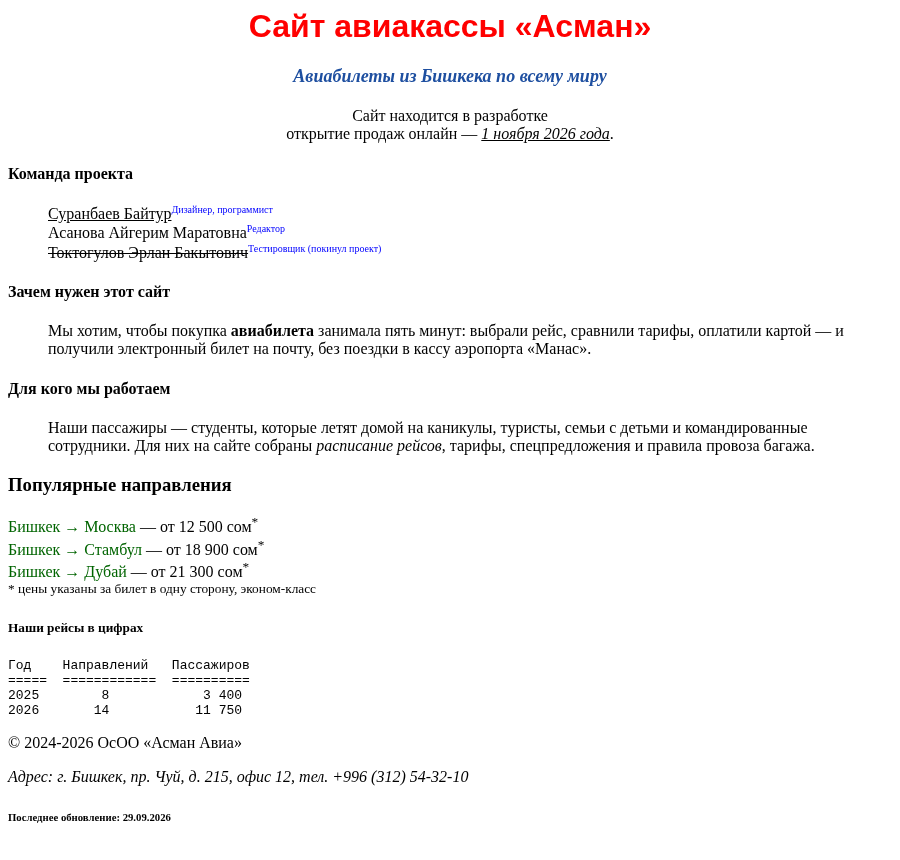
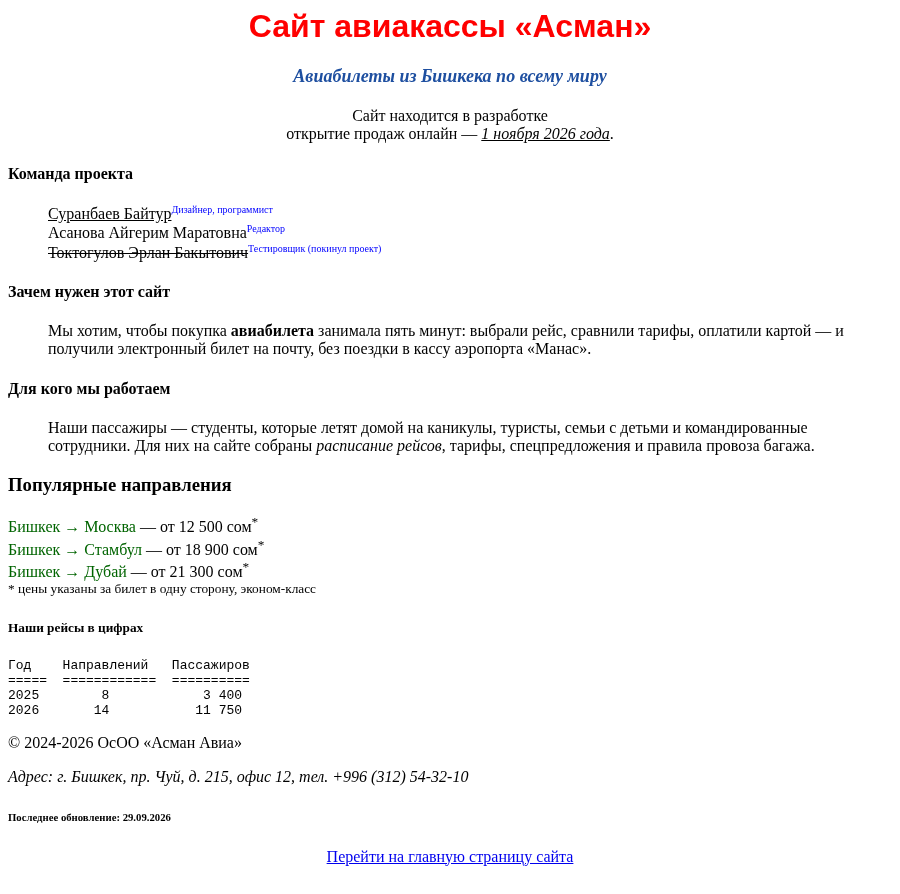
Clean sky background (no mirrored glare), vizitka link back to home per fig.3; update screenshots

Changed region(s): [[0.0, 0.1814, 0.9333, 0.9674], [0.28, 0.0, 0.7156, 0.1814], [0.3422, 0.9372, 0.6533, 0.9674]]

diff --git a/lab2/bilety.html b/lab2/bilety.html
@@ -2,7 +2,7 @@
 	<head>
 		<title>Покупка билетов — Авиакасса «Асман»</title>
 	</head>
-	<body background="images/fon.jpg" text="#1A1A2E" link="#1E4FA0">
+	<body background="images/fon.jpg" style="background-size: cover;" text="#1A1A2E" link="#1E4FA0">
 		<h1 align="center"><font color="#C0392B" face="Arial">Покупка билетов</font></h1>
 		<p align="center"><a href="home.html">На главную</a> | <a href="raspisanie.html">Расписание рейсов</a> | <a href="menu.html">Карта-меню</a></p>
 		<hr size="3" width="90%" color="#1E4FA0" align="center">

diff --git a/lab2/raspisanie.html b/lab2/raspisanie.html
@@ -2,7 +2,7 @@
 	<head>
 		<title>Расписание рейсов — Авиакасса «Асман»</title>
 	</head>
-	<body background="images/fon.jpg" text="#1A1A2E" link="#1E4FA0">
+	<body background="images/fon.jpg" style="background-size: cover;" text="#1A1A2E" link="#1E4FA0">
 		<h1 align="center"><font color="#C0392B" face="Arial">Расписание рейсов</font></h1>
 		<p align="center"><a href="home.html">На главную</a> | <a href="bilety.html">Покупка билетов</a> | <a href="menu.html">Карта-меню</a></p>
 		<hr size="3" width="90%" color="#1E4FA0" align="center">

diff --git a/lab2/home.html b/lab2/home.html
@@ -2,7 +2,7 @@
 	<head>
 		<title>Авиакасса «Асман» — главная</title>
 	</head>
-	<body background="images/fon.jpg" text="#1A1A2E" link="#1E4FA0" vlink="#8E44AD">
+	<body background="images/fon.jpg" style="background-size: cover;" text="#1A1A2E" link="#1E4FA0" vlink="#8E44AD">
 		<h1 align="center"><font color="#C0392B" face="Arial">Авиакасса «Асман»</font></h1>
 		<p align="center"><i>Авиабилеты из Бишкека по всему миру</i></p>
 		<hr size="3" width="90%" color="#1E4FA0" align="center">

diff --git a/lab1/lab1_2.html b/lab1/lab1_2.html
@@ -2,7 +2,7 @@
 	<head>
 		<title>Об авторе</title>
 	</head>
-	<body bgcolor="#EAF2FB" background="images/fon.jpg" text="#1A1A2E" link="#C0392B">
+	<body bgcolor="#EAF2FB" background="images/fon.jpg" style="background-size: cover;" text="#1A1A2E" link="#C0392B">
 		<p align="center"><font size="6" face="Georgia" color="#1E4FA0"><b>Об авторе</b></font></p>
 
 		<p align="right"><i><q>Небо принадлежит тем, кто не боится летать</q></i></p>

diff --git a/lab1/vizitka.html b/lab1/vizitka.html
@@ -48,5 +48,6 @@
 		<p>&copy; 2024-2026 ОсОО &laquo;Асман Авиа&raquo;</p>
 		<address>Адрес: г. Бишкек, пр. Чуй, д. 215, офис 12, тел. +996&nbsp;(312)&nbsp;54-32-10</address>
 		<h6>Последнее обновление: 29.09.2026</h6>
+		<p align="center"><a href="../lab2/home.html">Перейти на главную страницу сайта</a></p>
 	</body>
 </html>
